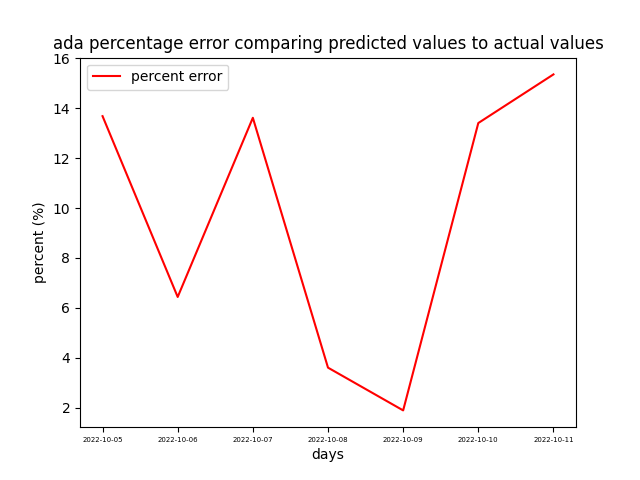
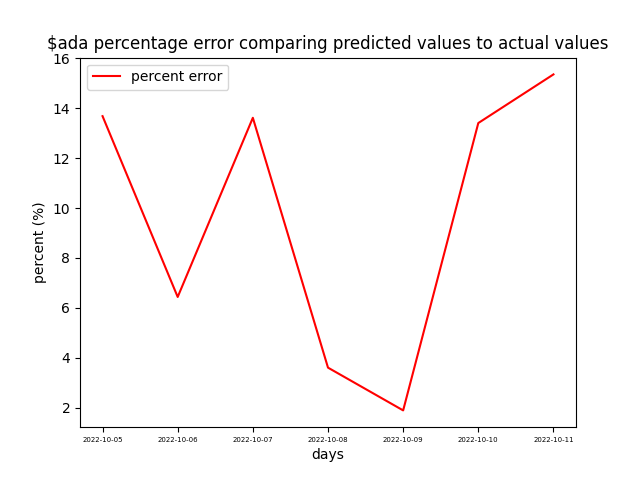
add last changes

Changed region(s): [[0.0625, 0.0625, 0.9688, 0.125]]

diff --git a/stage_3/analysis/reconciliation_script.py b/stage_3/analysis/reconciliation_script.py
@@ -85,7 +85,7 @@ def analysis(crypto: str):
 
     plt.plot(dates, percent_error_list, color="red", label="percent error")
     plt.legend()
-    plt.title(f"{crypto} percentage error comparing predicted values to actual values")
+    plt.title(f"${crypto} percentage error")
     plt.xticks(fontsize=5)
     plt.xlabel('days')
     plt.ylabel('percent (%)')
@@ -97,11 +97,11 @@ def analysis(crypto: str):
 
     fig, ax = plt.subplots()
     ax.yaxis.set_major_formatter(FormatStrFormatter('%.4f'))
-    plt.plot(dates, new_actual_list, color="orange", label="actual values")
-    plt.plot(dates, new_prediction_list, color='blue', label="predicted values")
+    plt.plot(dates, new_actual_list, color="orange", label="actual")
+    plt.plot(dates, new_prediction_list, color='blue', label="predicted")
 
     plt.legend()
-    plt.title(f"eth predicted values and actual values line")
+    plt.title(f"${crypto} predicted vs actual")
     plt.xticks(fontsize=5)
     plt.yticks(fontsize=6)
     plt.xlabel('days')
